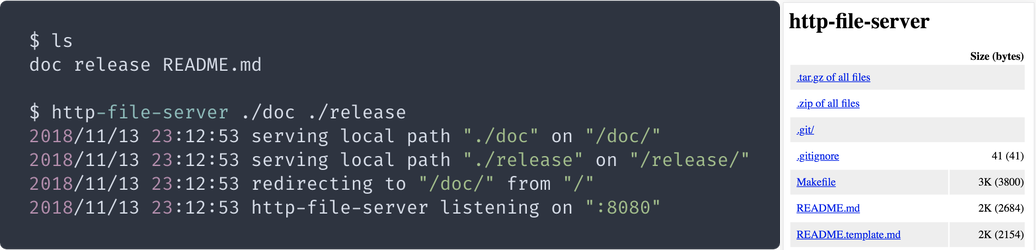
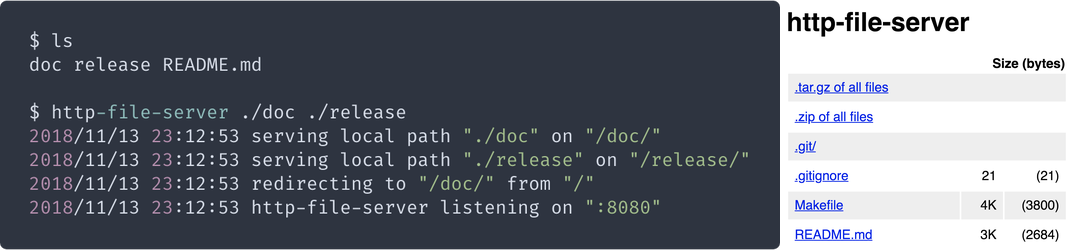
Rounding of sizes

diff --git a/server.go b/server.go
@@ -3,6 +3,7 @@ package main
 import (
 	"fmt"
 	"html/template"
+	"math"
 	"net/http"
 	"net/url"
 	"os"
@@ -65,17 +66,20 @@ func (f fileSizeBytes) String() string {
 		MB = 1024 * KB
 		GB = 1024 * MB
 	)
+	divBy := func(x int64) int {
+		return int(math.Round(float64(f) / float64(x)))
+	}
 	switch {
 	case f < KB:
 		return fmt.Sprintf("%d", f)
 	case f < MB:
-		return fmt.Sprintf("%dK", f/KB)
+		return fmt.Sprintf("%dK", divBy(KB))
 	case f < GB:
-		return fmt.Sprintf("%dM", f/MB)
+		return fmt.Sprintf("%dM", divBy(MB))
 	case f >= GB:
 		fallthrough
 	default:
-		return fmt.Sprintf("%dG", f/GB)
+		return fmt.Sprintf("%dG", divBy(GB))
 	}
 }
 

diff --git a/README.md b/README.md
@@ -60,14 +60,14 @@ Or [download a binary](https://github.com/sgreben/http-file-server/releases/late
 
 ```sh
 # Linux
-curl -L https://github.com/sgreben/http-file-server/releases/download/1.3.2/http-file-server_1.3.2_linux_x86_64.tar.gz | tar xz
+curl -L https://github.com/sgreben/http-file-server/releases/download/1.3.3/http-file-server_1.3.3_linux_x86_64.tar.gz | tar xz
 
 # OS X
-curl -L https://github.com/sgreben/http-file-server/releases/download/1.3.2/http-file-server_1.3.2_osx_x86_64.tar.gz | tar xz
+curl -L https://github.com/sgreben/http-file-server/releases/download/1.3.3/http-file-server_1.3.3_osx_x86_64.tar.gz | tar xz
 
 # Windows
-curl -LO https://github.com/sgreben/http-file-server/releases/download/1.3.2/http-file-server_1.3.2_windows_x86_64.zip
-unzip versions_1.3.2_windows_x86_64.zip
+curl -LO https://github.com/sgreben/http-file-server/releases/download/1.3.3/http-file-server_1.3.3_windows_x86_64.zip
+unzip versions_1.3.3_windows_x86_64.zip
 ```
 
 ## Use it
